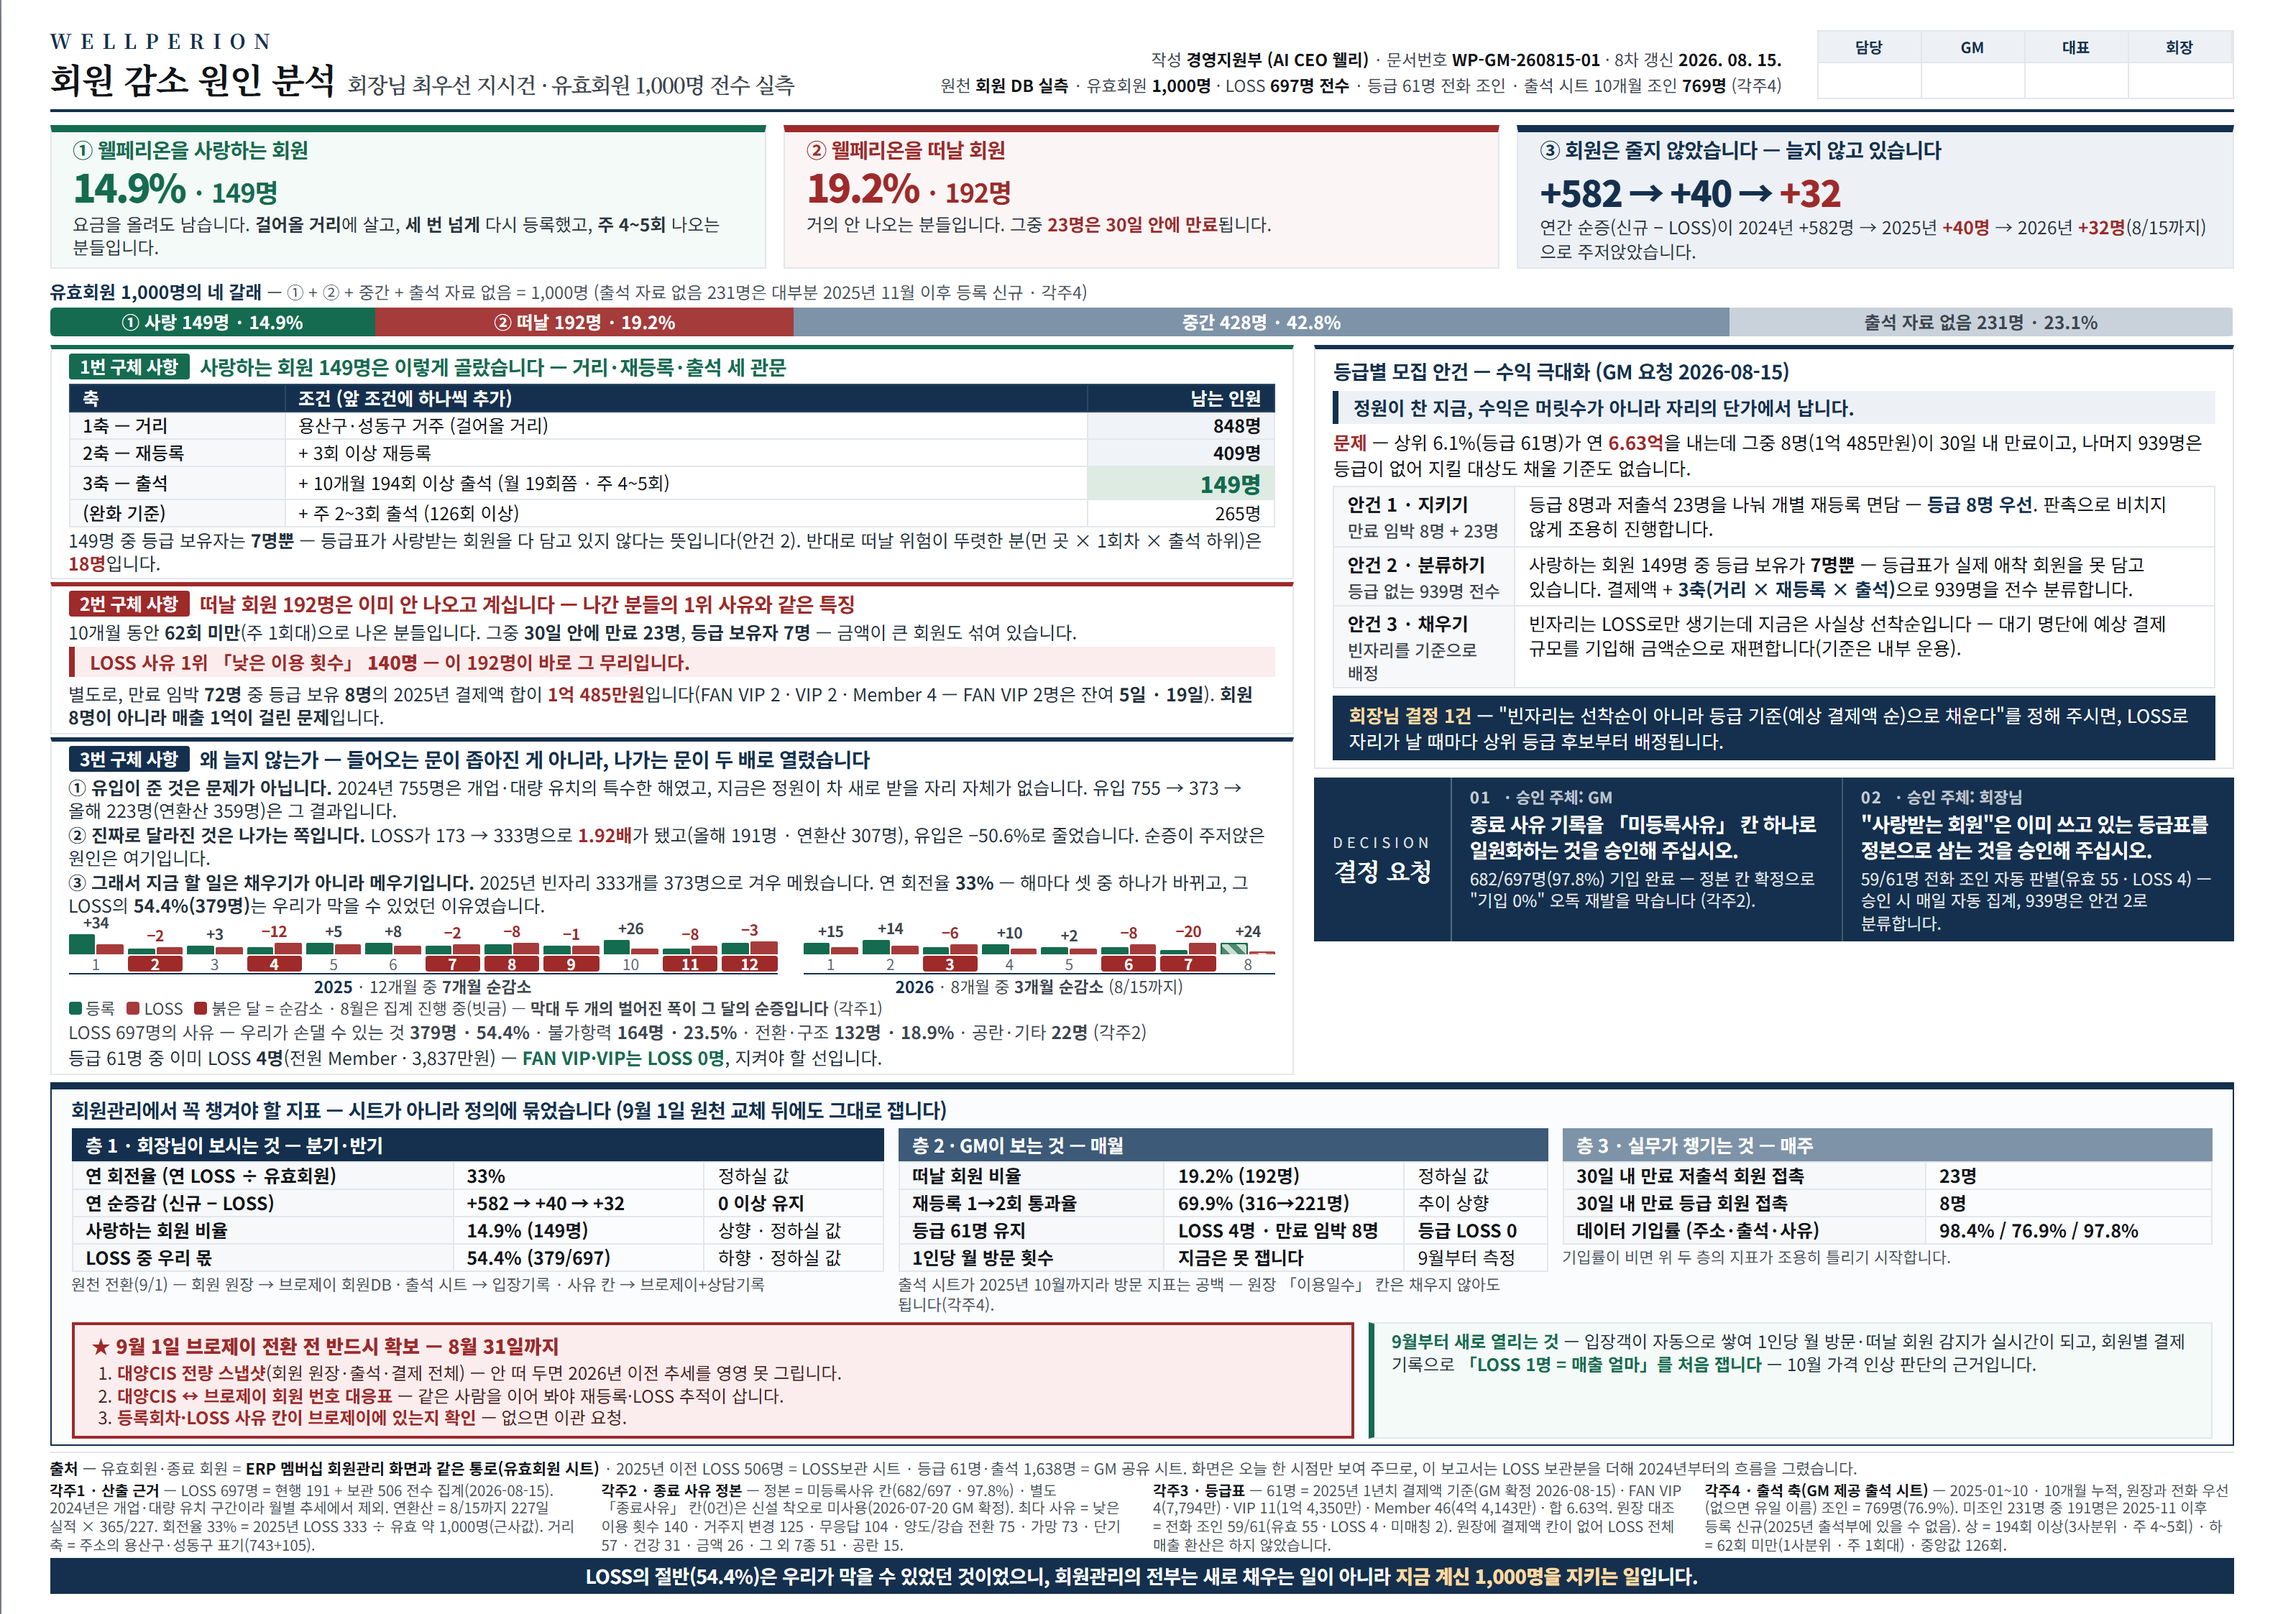
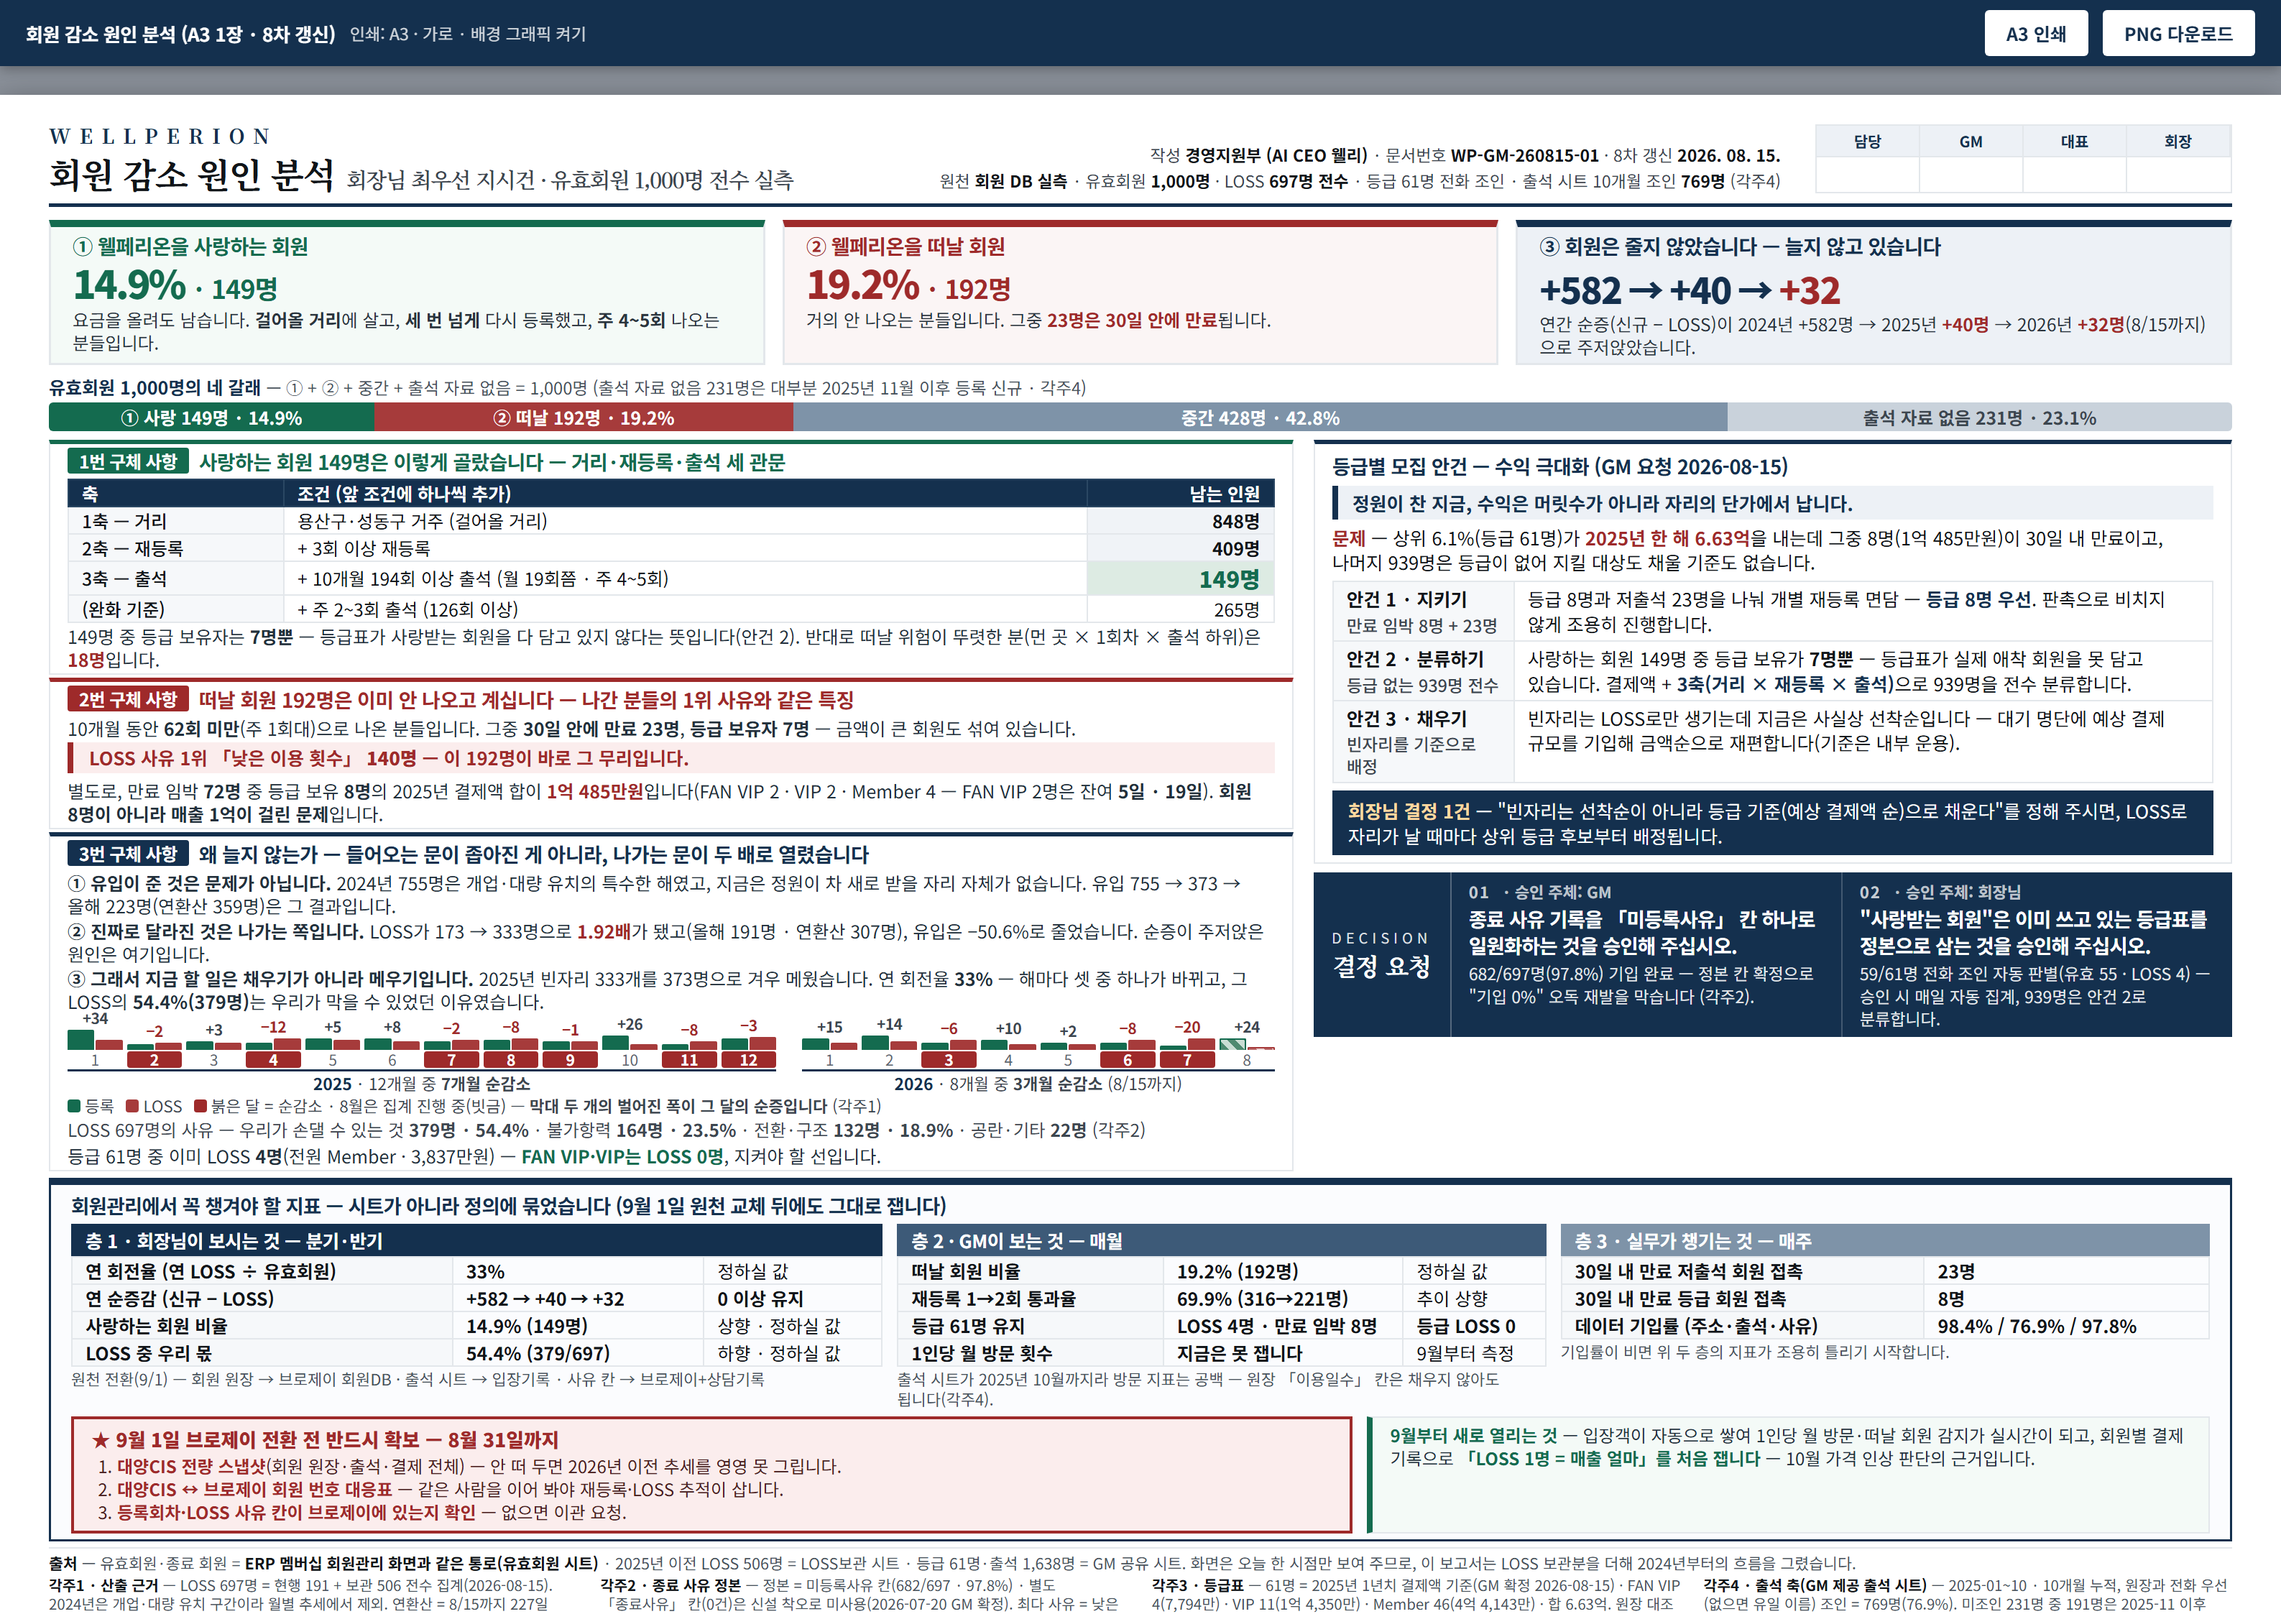
fix(cpo): A3 등급 결제액에 기간 명기(2025년 한 해 6.63억) + PNG 재캡처 (검수 2026-08-15 · 배644)

diff --git a/3. 웰페리온 가이드/reports/260815_회원감소원인분석_A3.html b/3. 웰페리온 가이드/reports/260815_회원감소원인분석_A3.html
@@ -345,7 +345,7 @@
       <div class="box agenda">
         <h3>등급별 모집 안건 — 수익 극대화 (GM 요청 2026-08-15)</h3>
         <div class="concl">정원이 찬 지금, 수익은 머릿수가 아니라 자리의 단가에서 납니다.</div>
-        <p class="prob"><b>문제</b> — 상위 6.1%(등급 61명)가 연 <b>6.63억</b>을 내는데 그중 8명(1억 485만원)이 30일 내 만료이고, 나머지 939명은 등급이 없어 지킬 대상도 채울 기준도 없습니다.</p>
+        <p class="prob"><b>문제</b> — 상위 6.1%(등급 61명)가 <b>2025년 한 해 6.63억</b>을 내는데 그중 8명(1억 485만원)이 30일 내 만료이고, 나머지 939명은 등급이 없어 지킬 대상도 채울 기준도 없습니다.</p>
         <table class="ag">
           <colgroup><col style="width:126px"><col></colgroup>
           <tbody>
